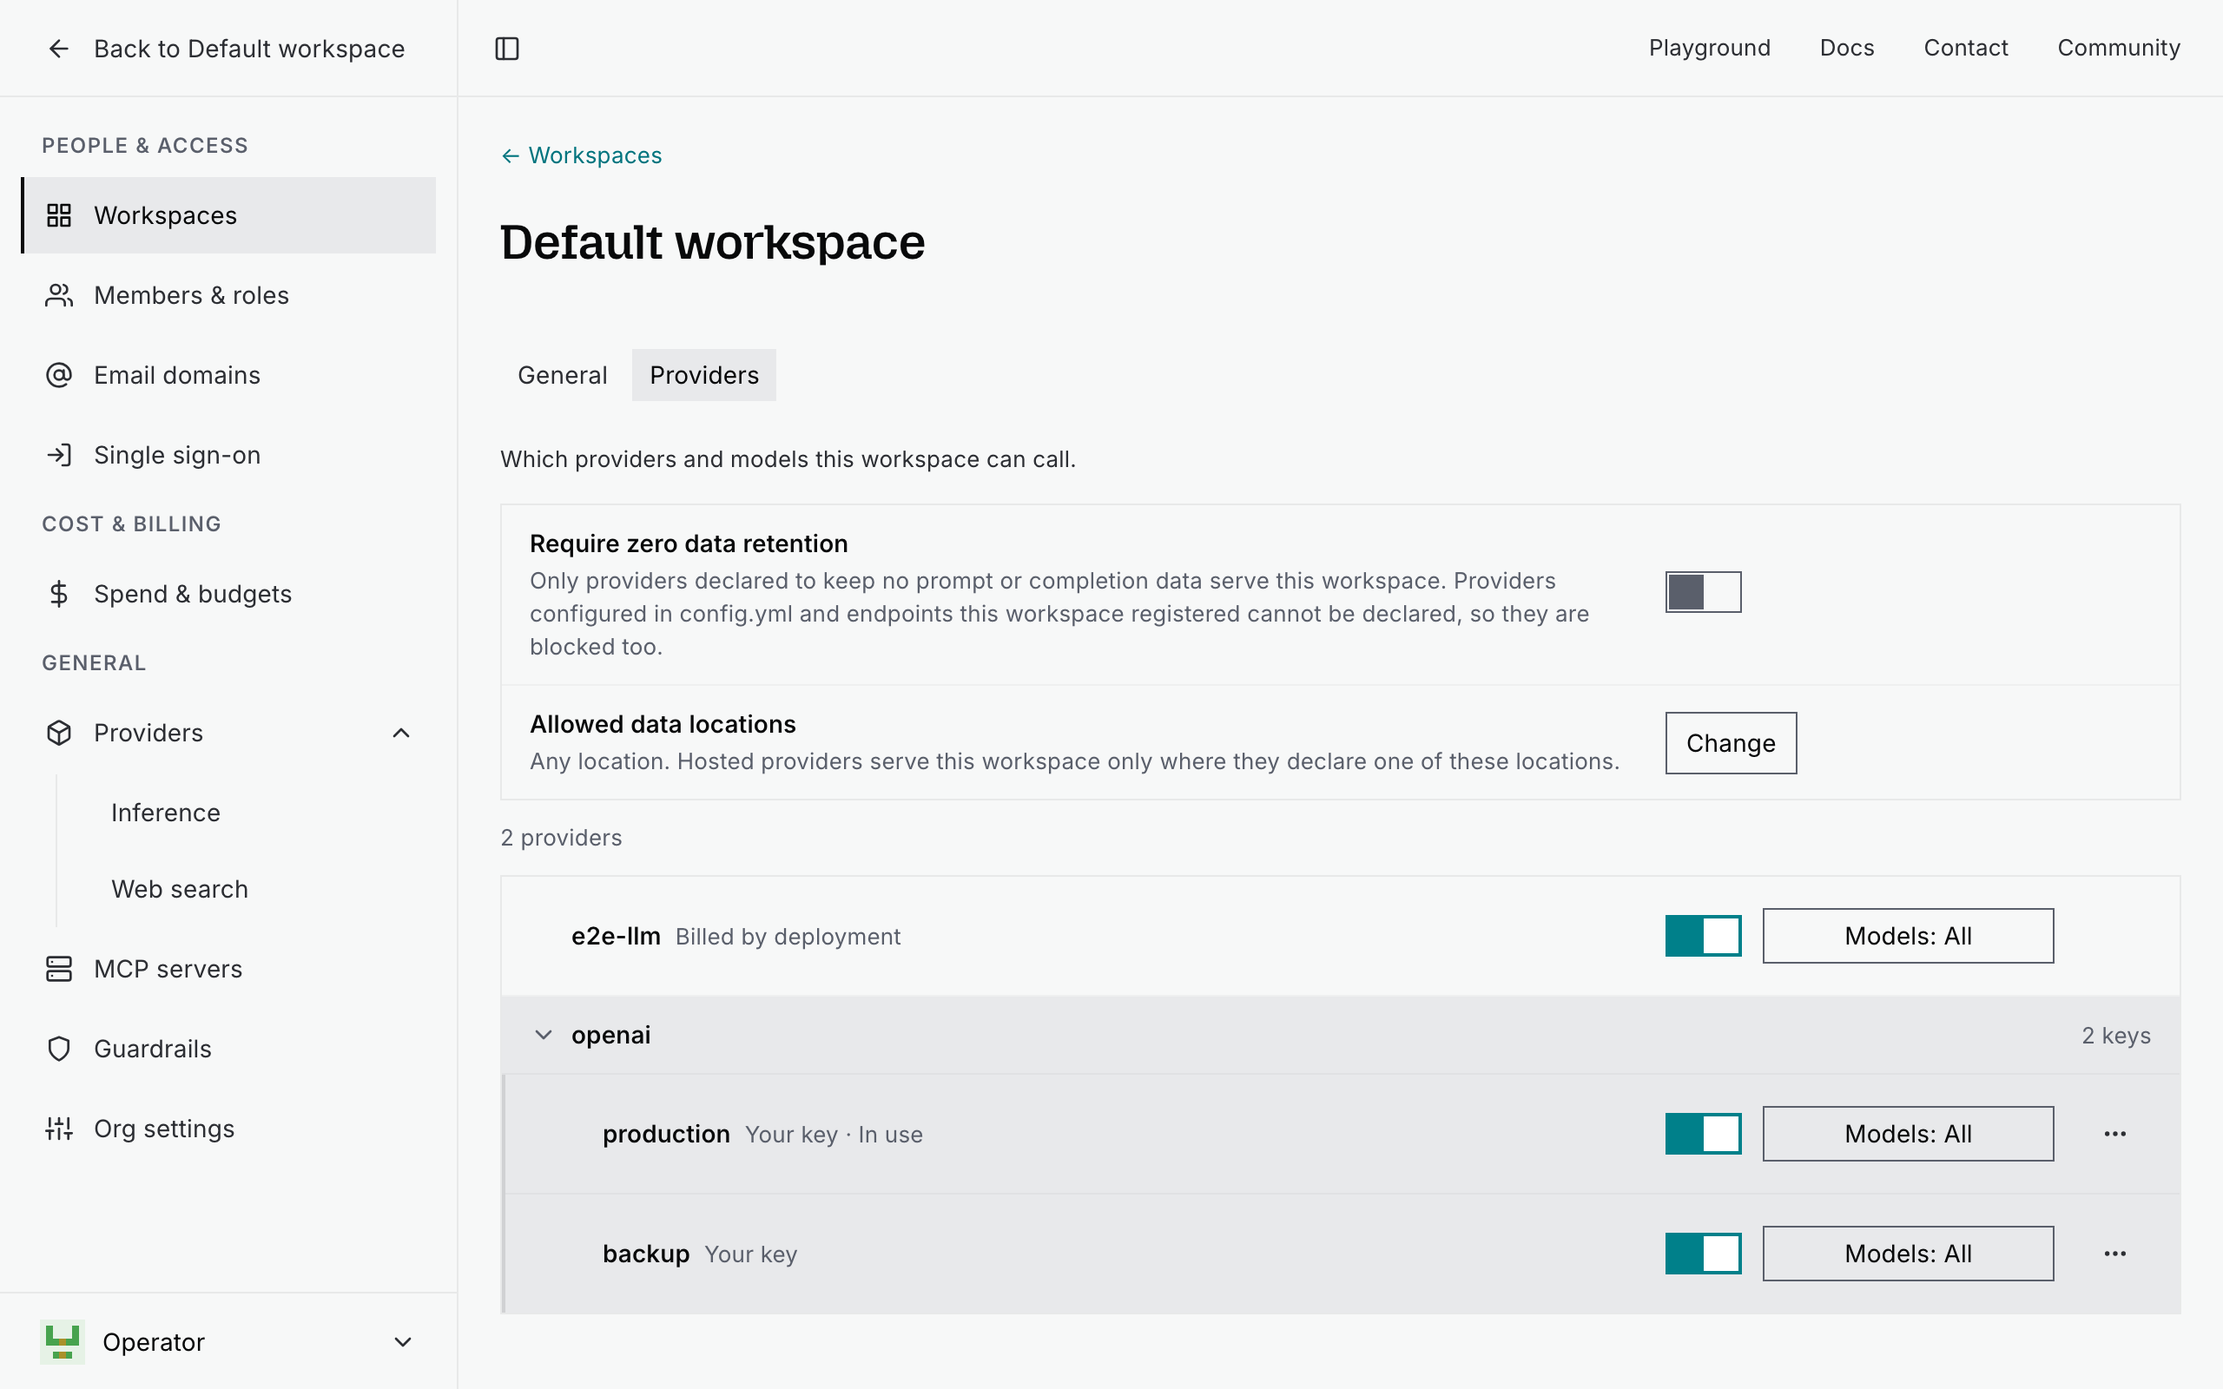
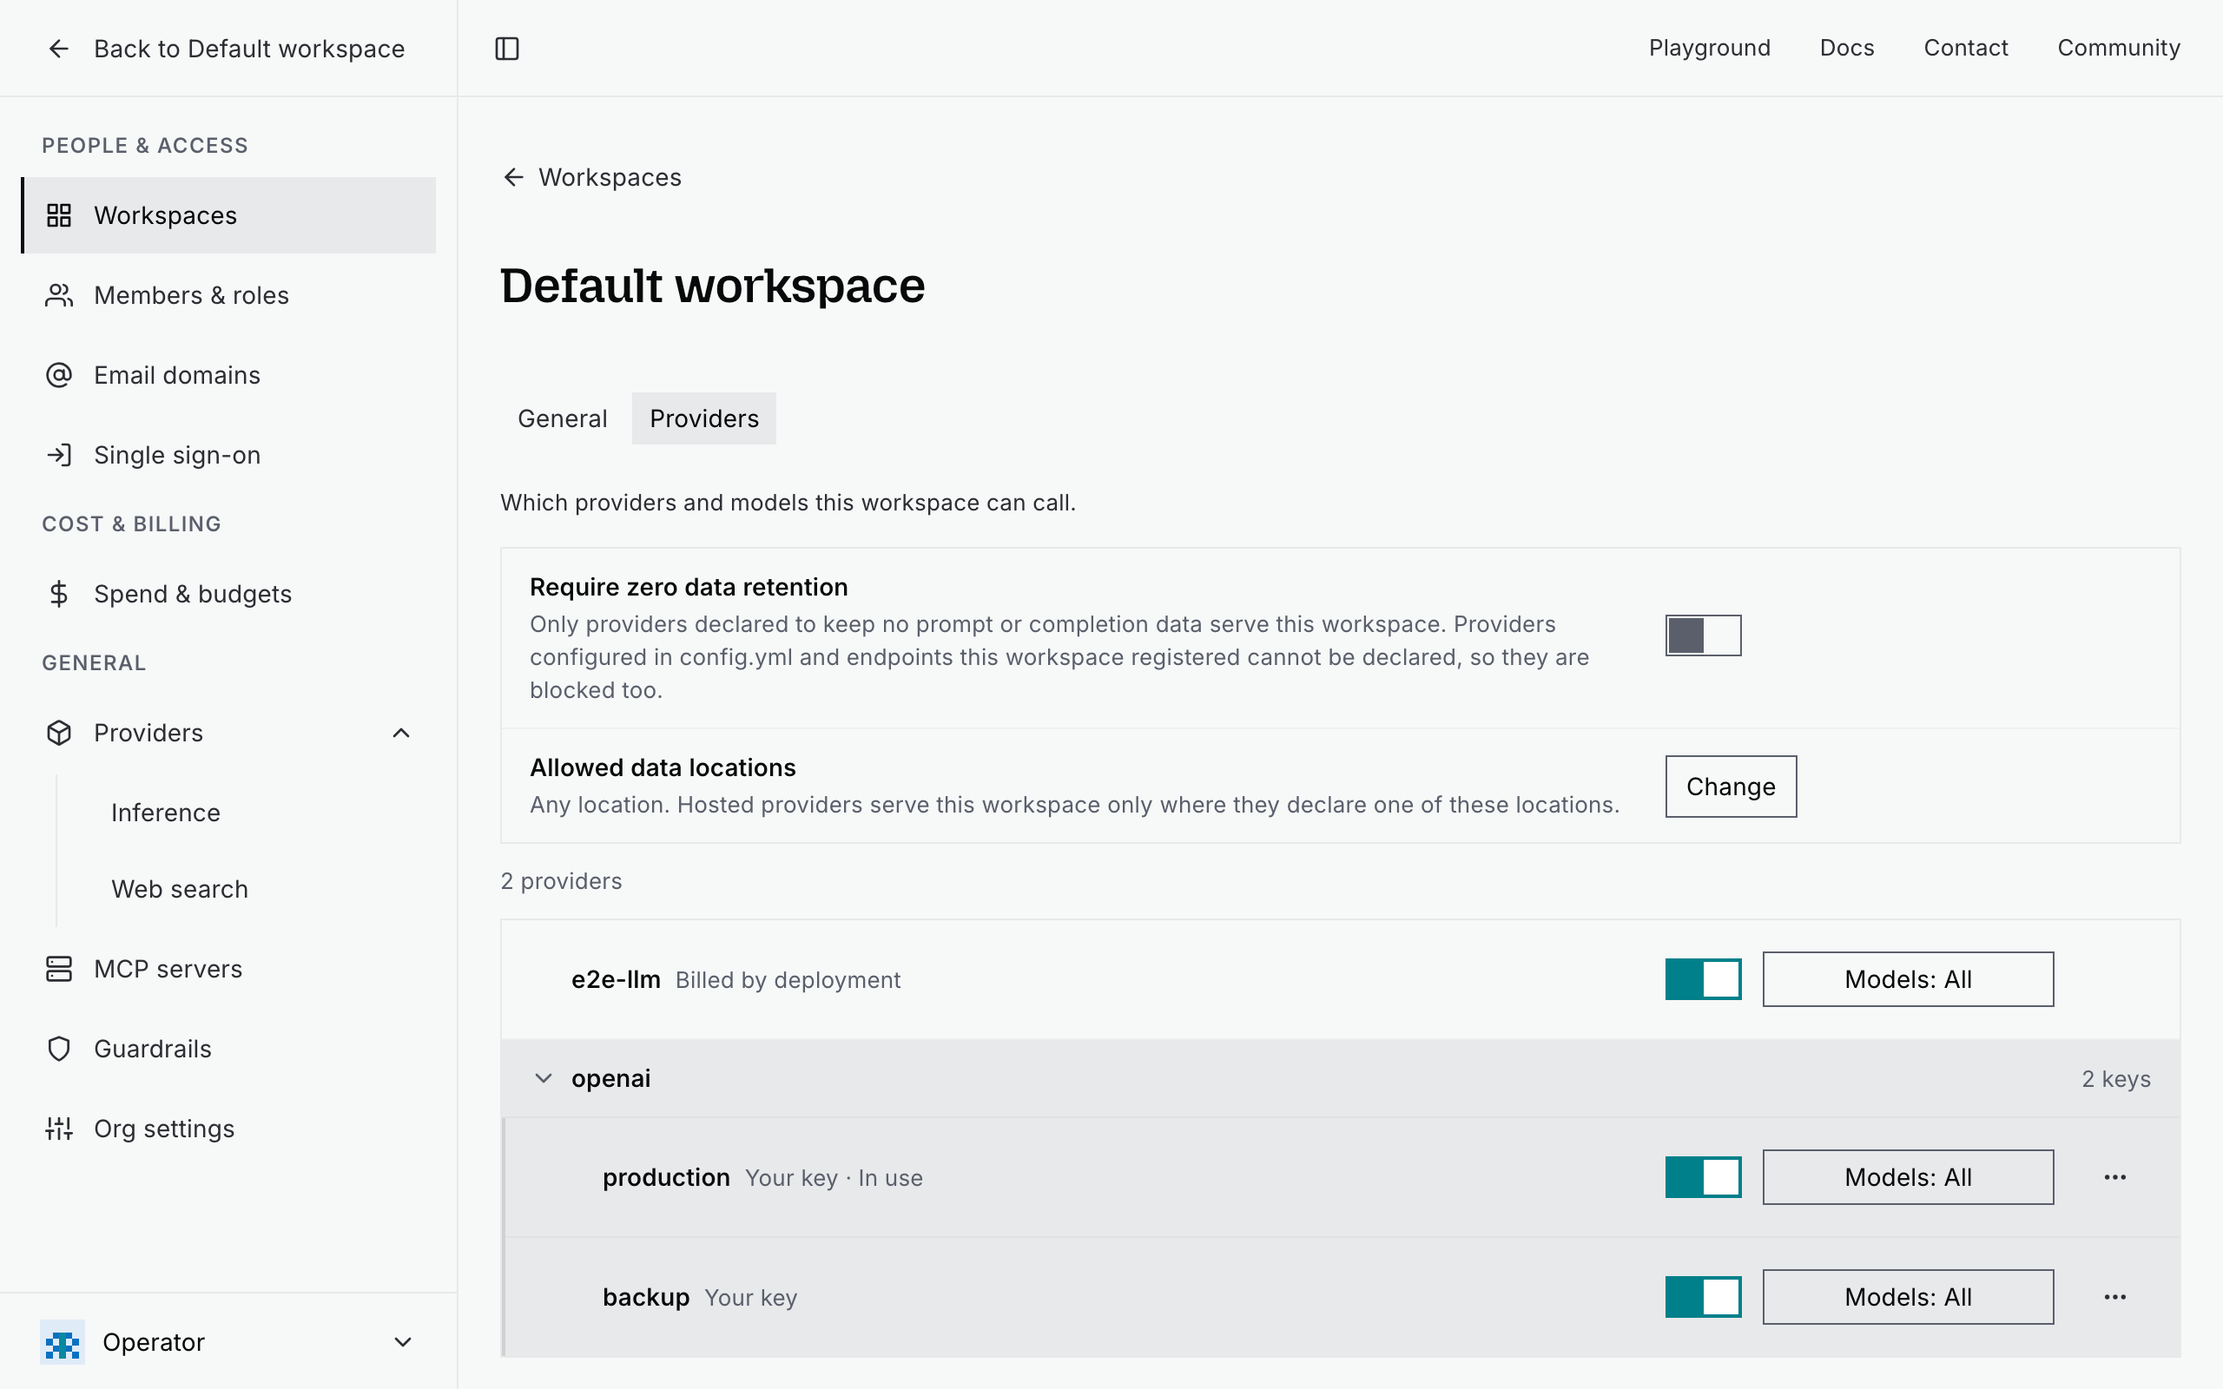
fix(web): use the shared back link on every detail page
The hosted provider, provider, model, workspace and routing policy pages
and the MCP sign-in page take the shared back link in place of a teal text
arrow, so every way back is one style with the 44px touch target. The two
public catalog pages render ahead of the router, so they take a plain
anchor of the same look. The docs capture of a workspace's page shows the
new link.

diff --git a/web/src/features/hostedProviders/HostedProviderPage.tsx b/web/src/features/hostedProviders/HostedProviderPage.tsx
@@ -1,4 +1,4 @@
-import { Link, useNavigate } from "@tanstack/react-router"
+import { useNavigate } from "@tanstack/react-router"
 import { type ReactNode, useState } from "react"
 import { FiActivity, FiEdit2, FiPlus, FiTrash2 } from "react-icons/fi"
 
@@ -26,8 +26,8 @@ import {
   useUpdateHostedProvider,
 } from "@/shared/api/hostedProviders"
 import { useProviderHealth, useProviders } from "@/shared/api/providers"
+import { BackLink } from "@/shared/components/BackLink"
 import { useDeployment } from "@/shared/hooks/useDeployment"
-
 import { dataLocationLabel } from "./dataLocations"
 import { EditHostedProviderForm } from "./EditHostedProviderForm"
 import { HostedProviderModelsPanel } from "./HostedProviderModelsPanel"
@@ -43,17 +43,8 @@ import { formatCountries } from "./supportedCountries"
 // A provider defined in config.yml shows its settings read-only, since the
 // file is where they change, and its models are managed here like any other's.
 
-function BackLink() {
-  return (
-    <nav aria-label="Back" className="text-caption">
-      <Link
-        to="/admin/hosted-providers"
-        className="text-link hover:text-link-hover"
-      >
-        ← Hosted providers
-      </Link>
-    </nav>
-  )
+function ListBackLink() {
+  return <BackLink to="/admin/hosted-providers" label="Hosted providers" />
 }
 
 /** One fact about the provider, label above value. */
@@ -203,7 +194,7 @@ export function HostedProviderPage({ name }: { name: string }) {
   if (access.isError) {
     return (
       <div className="flex flex-col">
-        <BackLink />
+        <ListBackLink />
         <PageIntro title={name} />
         <ErrorBanner error={access.error} />
       </div>
@@ -228,7 +219,7 @@ export function HostedProviderPage({ name }: { name: string }) {
   if (providers.error) {
     return (
       <div className="flex flex-col">
-        <BackLink />
+        <ListBackLink />
         <PageIntro title={name} />
         <ErrorBanner error={providers.error} />
       </div>
@@ -243,7 +234,7 @@ export function HostedProviderPage({ name }: { name: string }) {
     }
     return (
       <div className="flex flex-col gap-2">
-        <BackLink />
+        <ListBackLink />
         <EmptyState
           title={`No hosted provider named ${name}`}
           description="It may have been removed. The list shows every provider this deployment serves on its own keys."
@@ -265,7 +256,7 @@ export function HostedProviderPage({ name }: { name: string }) {
   return (
     <div className="flex flex-col gap-6">
       <div className="flex flex-col gap-2">
-        <BackLink />
+        <ListBackLink />
         <PageIntro
           title={provider.name}
           action={

diff --git a/web/src/features/providers/ProviderDetailView.tsx b/web/src/features/providers/ProviderDetailView.tsx
@@ -18,6 +18,7 @@ import {
 import { publicProvidersHref } from "@/features/providers/publicProviders"
 import { ApiError } from "@/shared/api/client"
 import { useCatalogProvider } from "@/shared/api/models"
+import { BackAnchor } from "@/shared/components/BackLink"
 import { ProviderMark } from "@/shared/components/marks/BrandMark"
 import { followInAppLink } from "@/shared/helpers/appLocation"
 import { formatContext } from "@/shared/helpers/format"
@@ -97,17 +98,13 @@ function modelColumns(): DataTableColumn<CatalogProviderModel>[] {
 
 const rowKey = (row: CatalogProviderModel) => row.id
 
-function BackLink() {
+function ListBackLink() {
   return (
-    <nav aria-label="Back" className="text-caption">
-      <a
-        href={publicProvidersHref()}
-        onClick={followInAppLink}
-        className="text-link hover:text-link-hover"
-      >
-        ← Providers
-      </a>
-    </nav>
+    <BackAnchor
+      href={publicProvidersHref()}
+      onClick={followInAppLink}
+      label="Providers"
+    />
   )
 }
 
@@ -139,7 +136,7 @@ export function ProviderDetailView({
     ) {
       return (
         <div className="flex flex-col gap-6">
-          <BackLink />
+          <ListBackLink />
           <PageIntro
             title="Provider not found"
             detail={
@@ -155,7 +152,7 @@ export function ProviderDetailView({
 
   return (
     <div className="flex flex-col gap-6">
-      <BackLink />
+      <ListBackLink />
       {selected.isError ? <ErrorBanner error={selected.error} /> : null}
       <div className="flex flex-col gap-2">
         <PageIntro

diff --git a/web/src/features/models/ModelDetailPage.tsx b/web/src/features/models/ModelDetailPage.tsx
@@ -43,6 +43,7 @@ import {
   useDeploymentOperator,
   useOrganizationContext,
 } from "@/shared/api/organizations"
+import { BackAnchor, BackLink } from "@/shared/components/BackLink"
 import { ProviderMark } from "@/shared/components/marks/BrandMark"
 import { followInAppLink, routeHref } from "@/shared/helpers/appLocation"
 import {
@@ -501,15 +502,7 @@ function CatalogBackLink() {
   const search = useLocation({
     select: (location) => location.state.catalogSearch,
   })
-  return (
-    <Link
-      to="/models"
-      search={search ?? {}}
-      className="text-link hover:text-link-hover"
-    >
-      ← Models
-    </Link>
-  )
+  return <BackLink to="/models" search={search ?? {}} label="Models" />
 }
 
 export function ModelDetailView({
@@ -606,19 +599,15 @@ export function ModelDetailView({
 
   return (
     <div className="flex flex-col gap-6">
-      <nav aria-label="Back" className="text-caption">
-        {publicView ? (
-          <a
-            href={publicCatalogHref()}
-            onClick={followInAppLink}
-            className="text-link hover:text-link-hover"
-          >
-            ← Models
-          </a>
-        ) : (
-          <CatalogBackLink />
-        )}
-      </nav>
+      {publicView ? (
+        <BackAnchor
+          href={publicCatalogHref()}
+          onClick={followInAppLink}
+          label="Models"
+        />
+      ) : (
+        <CatalogBackLink />
+      )}
 
       {selected.isError ? <ErrorBanner error={selected.error} /> : null}
 

diff --git a/web/src/shared/components/BackLink.tsx b/web/src/shared/components/BackLink.tsx
@@ -1,5 +1,9 @@
 import { Link, type LinkProps } from "@tanstack/react-router"
+import type { MouseEventHandler } from "react"
 import { FiArrowLeft } from "react-icons/fi"
+
+const BACK_LINK_CLASS =
+  "flex min-h-11 w-fit items-center gap-1.5 text-sm text-muted hover:text-foreground"
 
 /** The way back to the list a detail page was opened from. */
 export function BackLink({
@@ -13,13 +17,31 @@ export function BackLink({
   label: string
 }) {
   return (
-    <Link
-      to={to}
-      search={search}
-      className="flex min-h-11 w-fit items-center gap-1.5 text-sm text-muted hover:text-foreground"
-    >
+    <Link to={to} search={search} className={BACK_LINK_CLASS}>
       <FiArrowLeft aria-hidden className="size-4" />
       {label}
     </Link>
+  )
+}
+
+/**
+ * The same link for a page that opens ahead of the router, as the public
+ * catalog does: a plain anchor that `followInAppLink` hands to the router once
+ * one is running.
+ */
+export function BackAnchor({
+  href,
+  onClick,
+  label,
+}: {
+  href: string
+  onClick?: MouseEventHandler<HTMLAnchorElement>
+  label: string
+}) {
+  return (
+    <a href={href} onClick={onClick} className={BACK_LINK_CLASS}>
+      <FiArrowLeft aria-hidden className="size-4" />
+      {label}
+    </a>
   )
 }

diff --git a/web/src/features/routing/PolicyDetailPage.tsx b/web/src/features/routing/PolicyDetailPage.tsx
@@ -1,12 +1,12 @@
-import { Link, useNavigate } from "@tanstack/react-router"
+import { useNavigate } from "@tanstack/react-router"
 
 import { EmptyState } from "@/design-system/feedback/EmptyState"
 import { ErrorBanner } from "@/design-system/feedback/ErrorBanner"
 import { InfoBanner } from "@/design-system/feedback/InfoBanner"
 import { PageLoading } from "@/design-system/feedback/PageLoading"
 import { PageIntro } from "@/design-system/layout/PageIntro"
+import { BackLink } from "@/shared/components/BackLink"
 import { useUrlValue } from "@/shared/helpers/urlState"
-
 import { FallbackChainGroup } from "./FallbackChainGroup"
 import { GuardrailsGroup } from "./GuardrailsGroup"
 import { MainSelectionGroup } from "./MainSelectionGroup"
@@ -43,13 +43,7 @@ export function PolicyDetailPage({ name }: { name: string }) {
     (entry) => entry.name === name && (entry.user_id ?? "") === userId,
   )
 
-  const back = (
-    <nav aria-label="Back" className="text-caption">
-      <Link to="/routing" className="text-link hover:text-link-hover">
-        ← Routing
-      </Link>
-    </nav>
-  )
+  const back = <BackLink to="/routing" label="Routing" />
 
   if (row === undefined) {
     if (isLoading || isFetching) return <PageLoading label="Loading policy…" />

diff --git a/web/src/features/workspaces/WorkspaceDetailPage.tsx b/web/src/features/workspaces/WorkspaceDetailPage.tsx
@@ -1,5 +1,3 @@
-import { Link } from "@tanstack/react-router"
-
 import type { CallerWorkspaceMembership } from "@/client"
 import { EmptyState } from "@/design-system/feedback/EmptyState"
 import { ErrorBanner } from "@/design-system/feedback/ErrorBanner"
@@ -18,6 +16,7 @@ import {
 import { WorkspaceGeneralForm } from "@/features/workspaces/WorkspaceGeneralForm"
 import { useOrganizationContext } from "@/shared/api/organizations"
 import { useWorkspaces } from "@/shared/api/workspaces"
+import { BackLink } from "@/shared/components/BackLink"
 import { useUrlState } from "@/shared/helpers/urlState"
 
 // Each capability is a tab of its own rather than a section of one long tab,
@@ -50,11 +49,7 @@ export function WorkspaceDetailPage({ workspaceId }: { workspaceId: string }) {
   // which is an organization owner's or admin's.
   const isManager = useIsOrganizationManager()
   const back = isManager ? (
-    <nav aria-label="Back" className="text-caption">
-      <Link to="/workspaces" className="text-link hover:text-link-hover">
-        ← Workspaces
-      </Link>
-    </nav>
+    <BackLink to="/workspaces" label="Workspaces" />
   ) : null
 
   if (workspace === undefined) {

diff --git a/web/src/features/tools/McpConnectionCallbackPage.tsx b/web/src/features/tools/McpConnectionCallbackPage.tsx
@@ -1,4 +1,4 @@
-import { Link, useNavigate } from "@tanstack/react-router"
+import { useNavigate } from "@tanstack/react-router"
 import { useEffect, useRef, useState } from "react"
 
 import type { McpConnectionCompleted } from "@/client"
@@ -20,6 +20,7 @@ import {
 } from "@/features/tools/mcpSignInWindow"
 import { CANCELLED_NOTICE } from "@/features/tools/useMcpSignIn"
 import { useCompleteMcpConnection } from "@/shared/api/tools"
+import { BackLink } from "@/shared/components/BackLink"
 
 export interface McpConnectionCallbackSearch {
   state?: string
@@ -214,14 +215,8 @@ export function McpConnectionCallbackPage({
   }
   return (
     <>
-      <PageIntro
-        title="Connect your account"
-        detail={
-          <Link to={LIST} className="text-link hover:text-link-hover">
-            ← MCP servers
-          </Link>
-        }
-      />
+      <BackLink to={LIST} label="MCP servers" />
+      <PageIntro title="Connect your account" />
       {refusal ? <InfoBanner tone="warning">{refusal}</InfoBanner> : null}
       {complete.error ? (
         <InfoBanner tone="warning">

diff --git a/web/src/features/models/ModelCatalogPage.test.tsx b/web/src/features/models/ModelCatalogPage.test.tsx
@@ -529,7 +529,7 @@ describe("ModelCatalogPage", () => {
     )
 
     await user.click(within(list).getByRole("link", { name: "Z.ai: GLM-5.3" }))
-    await user.click(await screen.findByRole("link", { name: "← Models" }))
+    await user.click(await screen.findByRole("link", { name: "Models" }))
 
     const search = await screen.findByRole("searchbox", {
       name: "Search models",
@@ -569,7 +569,7 @@ describe("ModelCatalogPage", () => {
 
     await user.click(within(table).getByText("GLM-5.3"))
 
-    const back = await screen.findByRole("link", { name: "← Models" })
+    const back = await screen.findByRole("link", { name: "Models" })
     const search = new URLSearchParams(back.getAttribute("href")?.split("?")[1])
     expect(search.get("q")).toBe("glm")
     expect(search.get("column")).toBe("input")

diff --git a/web/src/features/workspaces/WorkspaceDetailPage.test.tsx b/web/src/features/workspaces/WorkspaceDetailPage.test.tsx
@@ -136,7 +136,7 @@ describe("WorkspaceDetailPage", () => {
     )
     expect(screen.getByLabelText("Name")).toHaveValue("Default Workspace")
     expect(
-      await screen.findByRole("link", { name: "← Workspaces" }),
+      await screen.findByRole("link", { name: "Workspaces" }),
     ).toHaveAttribute("href", "/workspaces")
   })
 
@@ -159,7 +159,7 @@ describe("WorkspaceDetailPage", () => {
     await waitFor(() =>
       expect(screen.getByRole("button", { name: "Save" })).toBeEnabled(),
     )
-    expect(screen.queryByRole("link", { name: "← Workspaces" })).toBeNull()
+    expect(screen.queryByRole("link", { name: "Workspaces" })).toBeNull()
   })
 
   it("says a workspace it cannot find is not found", async () => {

diff --git a/web/src/features/providers/ProvidersView.test.tsx b/web/src/features/providers/ProvidersView.test.tsx
@@ -250,10 +250,10 @@ describe("ProviderDetailView", () => {
     expect(within(table).getByText("$2.00 / 1M")).toBeInTheDocument()
     expect(within(table).getByText("200K")).toBeInTheDocument()
     expect(within(table).getByText(/\$0\.04.*image/)).toBeInTheDocument()
-    expect(screen.getByRole("link", { name: "← Providers" })).toHaveAttribute(
-      "href",
-      "/providers",
-    )
+    // The page's own back link, beside the navbar's Providers link.
+    expect(
+      within(screen.getByRole("main")).getByRole("link", { name: "Providers" }),
+    ).toHaveAttribute("href", "/providers")
   })
 
   it("says so when the provider does not exist", async () => {

diff --git a/web/src/features/models/PublicCatalogPage.test.tsx b/web/src/features/models/PublicCatalogPage.test.tsx
@@ -219,10 +219,10 @@ describe("PublicCatalogPage", () => {
     expect(rowMenuTriggers(grid)).toHaveLength(0)
     expect(screen.queryByRole("link", { name: /route across/ })).toBeNull()
     expect(screen.queryByText(/Your effective price/)).toBeNull()
-    expect(screen.getByRole("link", { name: "← Models" })).toHaveAttribute(
-      "href",
-      "/models",
-    )
+    // The page's own back link, beside the navbar's Models link.
+    expect(
+      within(screen.getByRole("main")).getByRole("link", { name: "Models" }),
+    ).toHaveAttribute("href", "/models")
   })
 
   it("starts an account from Use this model, sign-in while signup is closed", async () => {

diff --git a/web/e2e/dashboard.spec.ts b/web/e2e/dashboard.spec.ts
@@ -376,7 +376,10 @@ test.describe("dashboard core flows", () => {
     await page.getByRole("button", { name: "Rename" }).click()
     // The page follows the policy to its new address.
     await expect(pageHeading(page, "renamed")).toBeVisible()
-    await page.getByRole("link", { name: "← Routing" }).click()
+    await page
+      .getByRole("main")
+      .getByRole("link", { name: "Routing", exact: true })
+      .click()
 
     // A rename moves the row rather than copying it, so the old name has to be
     // gone: two rows would mean callers could still reach the policy either way.
